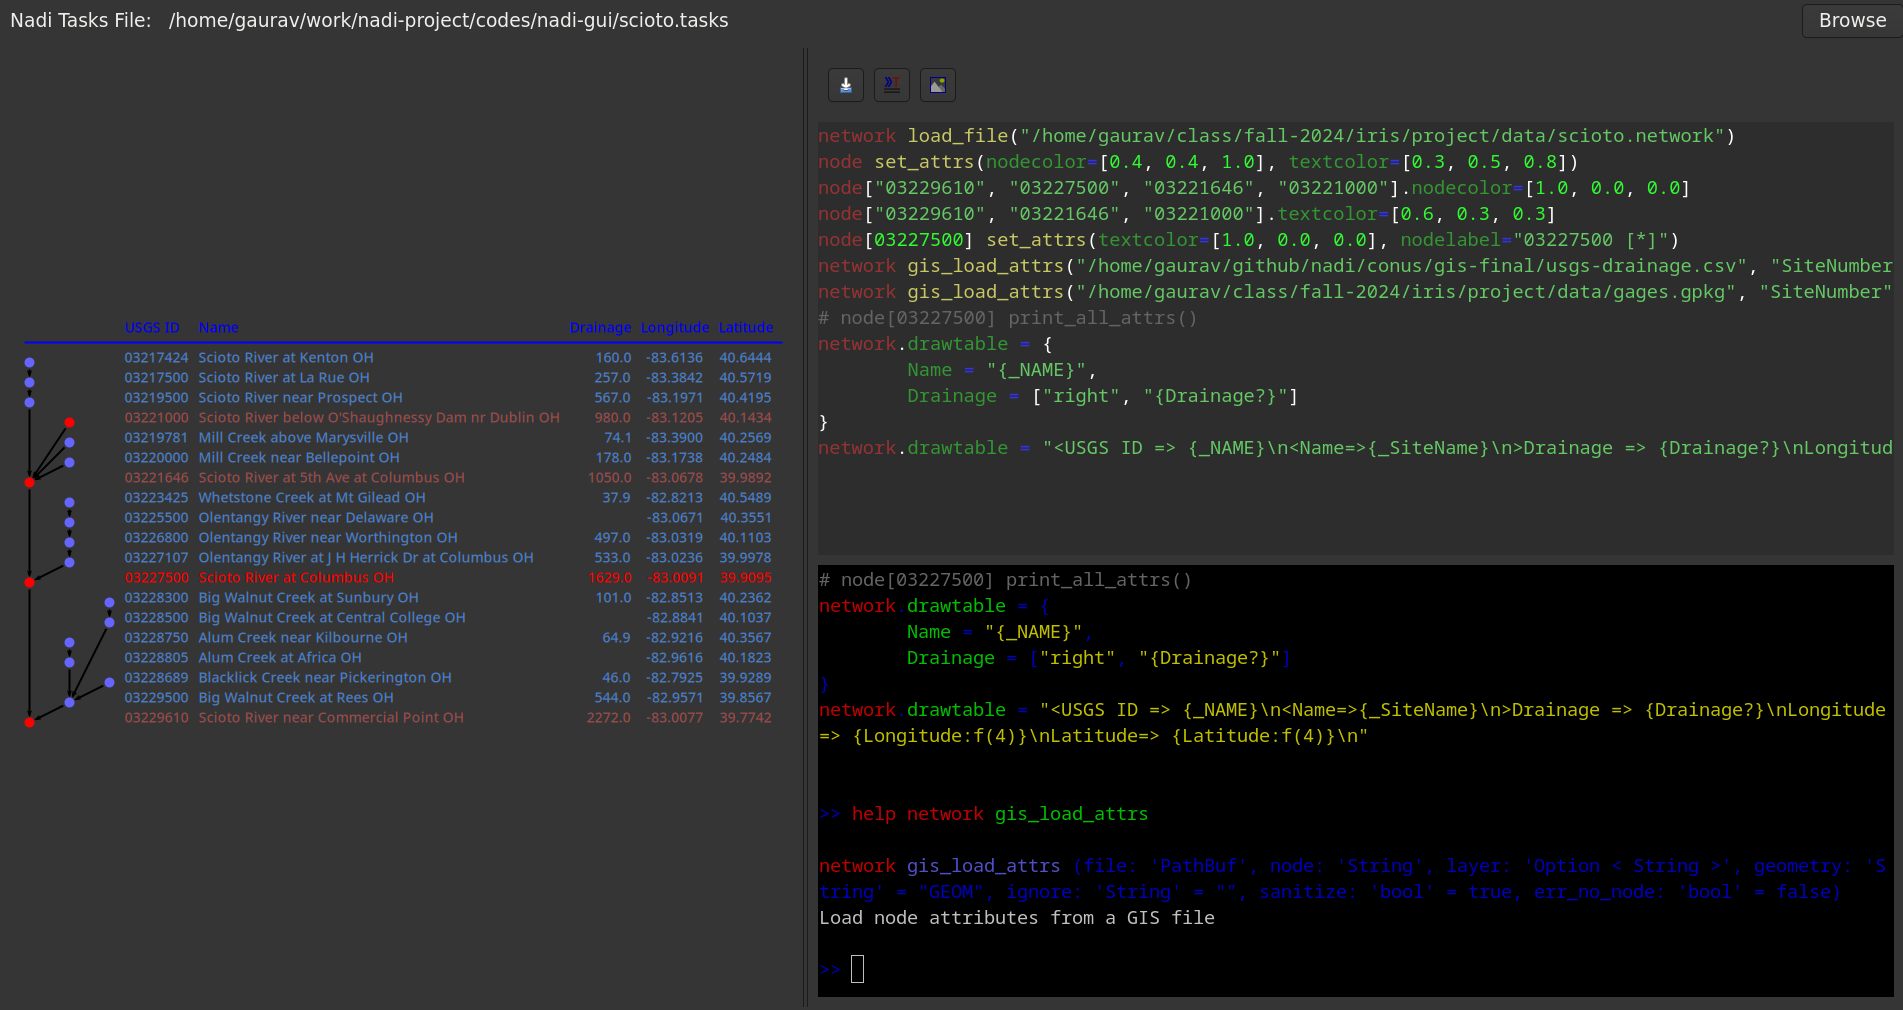
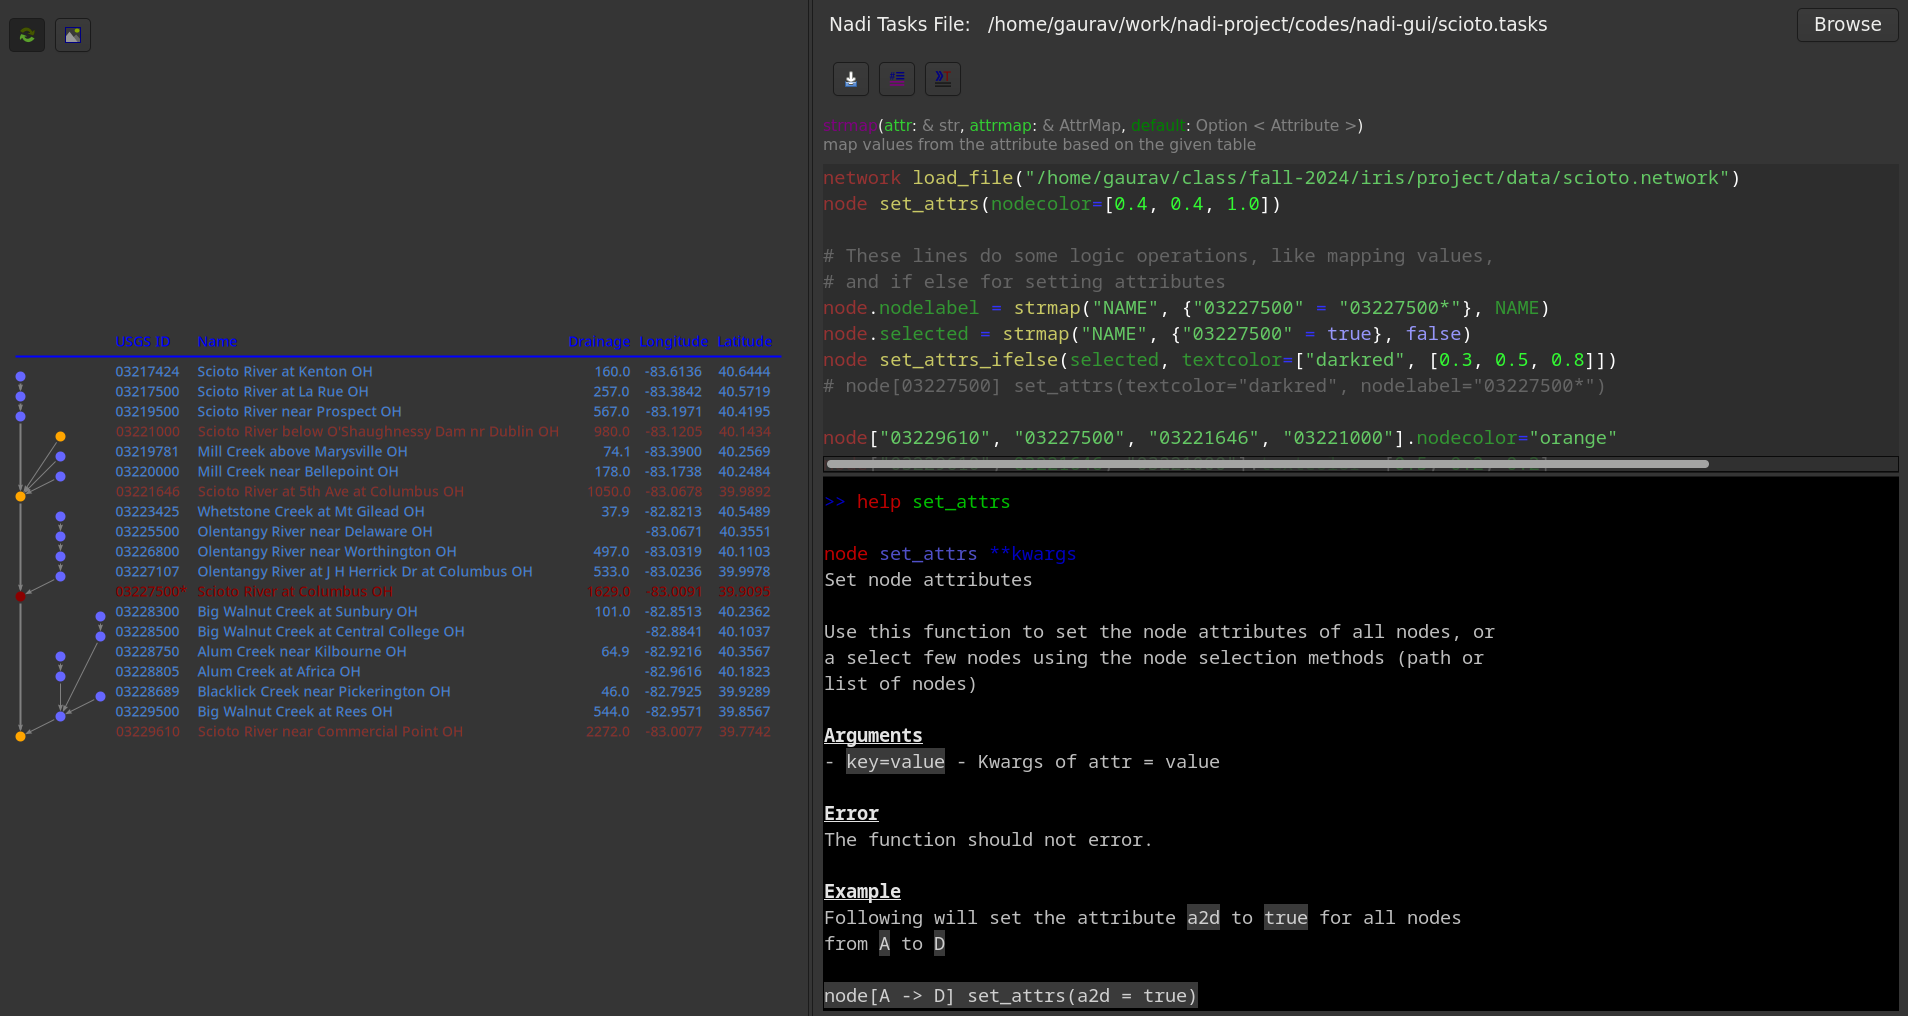
Make Textview and terminal size change; add color to func signature

diff --git a/src/window/mod.rs b/src/window/mod.rs
@@ -9,7 +9,11 @@ use gtk::{prelude::*, TextIter};
 use itertools::Itertools;
 use nadi_core::parser::tokenizer::{TaskToken, Token};
 use nadi_core::parser::NadiError;
-use nadi_core::{functions::NadiFunctions, network::Network, tasks::TaskContext};
+use nadi_core::{
+    functions::{NadiFunctions, SignatureArg},
+    network::Network,
+    tasks::TaskContext,
+};
 use std::fs::File;
 use std::io::{Read, Write};
 use std::iter::Iterator;
@@ -255,26 +259,66 @@ impl Window {
                         tasks_ctx
                             .functions
                             .node(&t.content)
-                            .map(|f| (f.signature(), f.short_help()))
+                            .map(|f| (f.args(), f.short_help()))
                     } else if line.trim().starts_with("net") {
                         tasks_ctx
                             .functions
                             .network(&t.content)
-                            .map(|f| (f.signature(), f.short_help()))
+                            .map(|f| (f.args(), f.short_help()))
                     } else {
                         tasks_ctx
                             .functions
-                            .network(&t.content)
-                            .map(|f| (f.signature(), f.short_help()))
+                            .node(&t.content)
+                            .map(|f| (f.args(), f.short_help()))
                             .or_else(|| {
                                 tasks_ctx
                                     .functions
-                                    .node(&t.content)
-                                    .map(|f| (f.signature(), f.short_help()))
+                                    .network(&t.content)
+                                    .map(|f| (f.args(), f.short_help()))
                             })
                     };
-                    if let Some((sig, help)) = func {
-                        let sig = format!("<span foreground=\"purple\">{}</span><span foreground=\"gray\">{}</span>\n<span foreground=\"yellow\" size=\"small\">{}</span>", &t.content, sig.replace("&", "&amp;").replace("<", "&lt;").replace(">", "&gt;"), help);
+                    if let Some((args, help)) = func {
+                        let args: Vec<String> = args
+                            .into_iter()
+                            .map(|a| {
+                                let (n, t, v) = match a {
+                                    SignatureArg::Arg(n, t) => (
+                                        format!("<span foreground=\"limegreen\">{}</span>", n),
+                                        t,
+                                        "".into(),
+                                    ),
+                                    SignatureArg::OptArg(n, t) => (
+                                        format!("<span foreground=\"green\">{}</span>", n),
+                                        t,
+                                        "".into(),
+                                    ),
+                                    SignatureArg::DefArg(n, t, val) => (
+                                        format!("<span foreground=\"green\">{}</span>", n),
+                                        t,
+                                        format!(" = <span foreground=\"yellow\">{}</span>", val),
+                                    ),
+                                    SignatureArg::Args => {
+                                        return "<span foreground=\"red\">*args</span>".to_string()
+                                    }
+                                    SignatureArg::KwArgs => {
+                                        return "<span foreground=\"red\">**kwargs</span>"
+                                            .to_string()
+                                    }
+                                };
+                                format!(
+                                    "{}: <span foreground=\"gray\">{}</span>{}",
+                                    n,
+                                    t.replace("&", "&amp;")
+                                        .replace("<", "&lt;")
+                                        .replace(">", "&gt;"),
+                                    v
+                                )
+                            })
+                            .collect();
+                        let sig = format!("<span size=\"small\"><span foreground=\"purple\">{}</span>({})</span>\n<span foreground=\"gray\" size=\"small\">{}</span>", &t.content, args.join(", "), help);
+                        self.imp().lab_signature.set_markup(&sig);
+                    } else {
+                        let sig = format!("<span size=\"small\"><span foreground=\"purple\">{}</span>()</span>\n<span foreground=\"red\" size=\"small\">Function Does Not Exist. Please Make sure you spelled it correct, or loaded all plugins.</span>", &t.content);
                         self.imp().lab_signature.set_markup(&sig);
                     }
                 }
